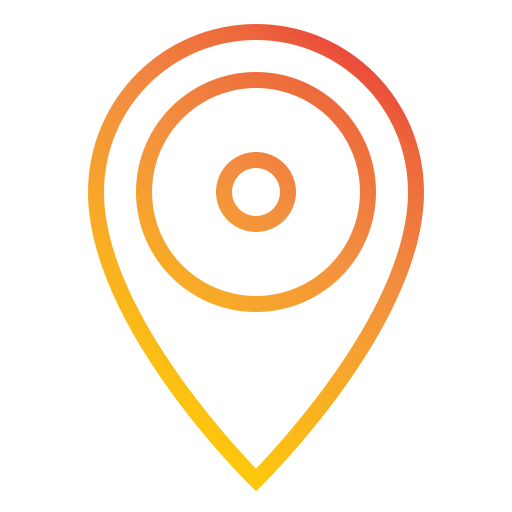
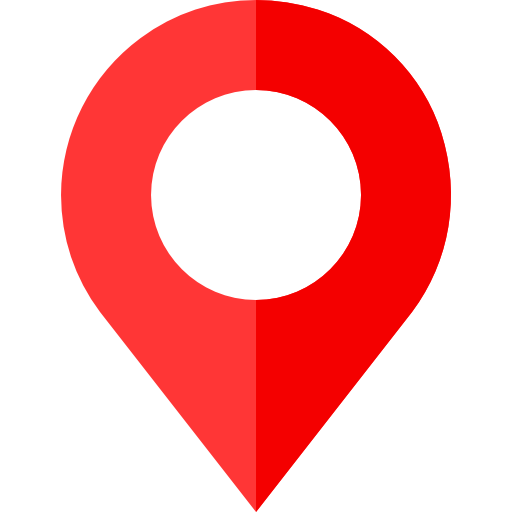
Proyecto final React Js

diff --git a/src/components/ItemCount/ItemCount.jsx b/src/components/ItemCount/ItemCount.jsx
@@ -3,8 +3,6 @@ import "./ItemCount.css"
 
 export const ItemCount = ({stock, cantidad, setCantidad, add}) => {
 
-
-
     const handleRestar = () => {
         cantidad > 1 && setCantidad(cantidad - 1)
     }
@@ -13,23 +11,20 @@ export const ItemCount = ({stock, cantidad, setCantidad, add}) => {
         cantidad < stock && setCantidad(cantidad + 1)
     }
 
-
-return (<div className='contador'>
-    <button
-        onClick={handleRestar} 
-        className={cantidad === 1 ?'btn mx-1 btn-outline-secondary' :'btn mx-1 btn-outline-dark'}
-        disabled={cantidad === 1}
-    >-</button>
-    <span className='mx-2'>{cantidad}</span>
-    <button
-        onClick={handleSumar}
-        className={cantidad === stock ?'btn mx-1 btn-secondary' :'btn mx-1 btn-dark'}
-        disabled={cantidad === stock}
-        >+</button>
-    <a onClick={add} href="#">Añadir al carrito</a> 
-</div>
-
-)
+    return (<div className='contador'>
+        <button
+            onClick={handleRestar} 
+            className={cantidad === 1 ?'btn mx-1 btn-outline-secondary' :'btn mx-1 btn-outline-dark'}
+            disabled={cantidad === 1}
+        >-</button>
+        <span className='mx-2'>{cantidad}</span>
+        <button
+            onClick={handleSumar}
+            className={cantidad === stock ?'btn mx-1 btn-secondary' :'btn mx-1 btn-dark'}
+            disabled={cantidad === stock}
+            >+</button>
+        <a onClick={add} href="#">Añadir al carrito</a> 
+    </div>)
 }
 
 

diff --git a/src/components/Cart/Cart.css b/src/components/Cart/Cart.css
@@ -1,14 +1,12 @@
 .tC h2{
     color: #8f1a26;
 }
-
 .cartProductos{
     display: grid;
     grid-template-columns: auto auto auto;
     background-color: #8f1a26;
     margin: 20px;
 }
-
 .imgCart{
     width: 150px;
     height: 200px;
@@ -18,53 +16,44 @@
     justify-content: center;
     margin-right: 100px;
 }
-
 .imgBox{
     display: flex;
     justify-content: center;
 }
-
 .trash{
     height: 25px;
     width: 25px;
     justify-content: end;
     margin-left: 50px;
 }
-
 .datosProductos{
     display: block;
     justify-content: start;
     align-items: center;
     margin: 40px;
 }
-
 .datosProductos h2{
     color: #e1aa47;
     margin-bottom: 20px;
 }
-
 .datosProductos h3{
     color: white;
     margin-bottom: 20px;
 }
-
 .cartVacio{
     color: #8f1a26;
 }
-
 .btnCart{
     color: white;
     background-color: #8f1a26;
     font-weight: 700;
     border: 1px solid #e1aa47;
 }
-
 .btnCart:hover{
     background-color: #e1aa47;
     transition-duration: 2s;
     border: 1px solid #8f1a26;
 }
-
 .cartBtn button{
     color: white;
     background-color: #e1aa47;
@@ -79,7 +68,6 @@
     background-color: #8f1a26;
     border: 1px solid #8f1a26;
 }
-
 .cartBtn a:hover{
     transition-duration: 2s;
 }

diff --git a/src/components/SocialNetworks/SocialNetworks.jsx b/src/components/SocialNetworks/SocialNetworks.jsx
@@ -1,0 +1,21 @@
+import whatsapp from "/img/whatsapp.png"
+import instagram from "/img/instagram.png"
+import facebook from "/img/facebook.png"
+import googlemaps from "/img/alfiler.png"
+import "./SocialNetwork.css"
+
+
+const SocialNetworks = () => {
+    return (
+        <footer className="footeR">
+            <div className="redes">
+                <a title="WhatsApp" href="https://web.whatsapp.com/"target="_blank" rel="noopener noreferrer"><img src={whatsapp} alt="WhatsApp" /></a>
+                <a title="Instagram" href="https://www.instagram.com/morioh.manga.castelar/?hl=es" target="_blank" rel="noopener noreferrer"><img src={instagram} alt="Instagram" /></a>
+                <a title="Facebook" href="https://www.facebook.com/profile.php?id=100072437049160"target="_blank" rel="noopener noreferrer"><img src={facebook} alt="Facebook" /></a>
+                <a title="Google Maps" href="https://www.google.com/maps/place/Morioh+-+Manga/@-34.6538122,-58.6422249,15z/data=!4m5!3m4!1s0x0:0x4b34f93cf4a0e4f4!8m2!3d-34.6538121!4d-58.6422249"target="_blank" rel="noopener noreferrer"><img src={googlemaps} alt="Google Maps" /></a>
+            </div>
+        </footer>
+    )
+}
+
+export default SocialNetworks

diff --git a/src/components/ItemDetailCard/ItemDetailCard.css b/src/components/ItemDetailCard/ItemDetailCard.css
@@ -3,39 +3,31 @@
     grid-template-columns: auto auto;
     background-color: #8f1a26;
 }
-
 .detalle-producto img{
     width: 400px;
     height: 500px;
     margin: 20px;
 }
-
 .detalle-producto div{
     margin: 20px;
 }
-
 .detalle-producto div h3{
     color: #e1aa47;
 }
-
 .detalle-producto div h5{
     color: white;
     font-size: 20px;
 }
-
 .detalle-producto div h4{
     color: white;
 }
-
 .detalle-producto div p{
     color: white;
     font-weight: 500;
 }
-
 .detalle-producto div a{
     margin-left: 20px;
     text-decoration: none;
-    font-family: 'Poppins', sans-serif;
     color: white;
     background-color: #e1aa47;
     border: 2px solid #e1aa47;
@@ -43,7 +35,6 @@
     border-radius: 30px;
     font-weight: 700;
 }
-
 .detalle-producto div a:hover{
     background-color: #8f1a26;
     transition-duration: 3s;
@@ -53,11 +44,11 @@
     font-size: 15px;
     margin-bottom: 30px;
 }
-
 .detalle-producto div h2{
     color: #e1aa47;
     font-weight: 800;
     font-size: 10px;
+    margin-bottom: 25px;
 }
 
 

diff --git a/src/App.jsx b/src/App.jsx
@@ -7,6 +7,7 @@ import { ItemDetailContainer } from './components/ItemDetailContainer/ItemDetail
 import { CartProvider } from './context/Cartcontext';
 import Cart from './components/Cart/Cart';
 import FinishOrder from './components/FinishOrder/FinishOrder';
+import SocialNetworks from './components/SocialNetworks/SocialNetworks';
 
 
 function App() {
@@ -24,6 +25,7 @@ function App() {
             <Route path='/Finishorder' element={<FinishOrder /> } />
             <Route path='*' element={ <Navigate to={"/"}/>} />
           </Routes>
+          <SocialNetworks/>
         </BrowserRouter>
       </div>
     </CartProvider>

diff --git a/src/components/FinishOrder/FinishOrder.jsx b/src/components/FinishOrder/FinishOrder.jsx
@@ -109,7 +109,7 @@ const FinishOrder = () => {
                     <input 
                         className='form-control my-4'
                         type="number" 
-                        placeholder='Telefono'
+                        placeholder='Teléfono'
                         value={values.telefono}
                         name='telefono'
                         onChange={handleChange}
@@ -131,10 +131,8 @@ const FinishOrder = () => {
                     </div>
                 </div>)}
             </Formik>
-            
-            
         </div>
     )
-    }
+}
 
 export default FinishOrder

diff --git a/src/components/ItemDetailContainer/ItemDetailContainer.jsx b/src/components/ItemDetailContainer/ItemDetailContainer.jsx
@@ -8,6 +8,7 @@ import { db } from '../../firebase/config'
 
 export const ItemDetailContainer = ({Stock}) => {
     const [item, setItem] = useState(null)
+
     const [loading, setLoading] = useState(true)
 
     const {itemId} = useParams()
@@ -26,8 +27,7 @@ export const ItemDetailContainer = ({Stock}) => {
         .catch(e => console.log(e))
         .finally(() => setLoading(false))
     }, [])
-    
-    
+
     return(
         <div className="producto-detalle">
             <h2>Catalogo de productos</h2>

diff --git a/index.html b/index.html
@@ -2,7 +2,7 @@
 <html lang="en">
   <head>
     <meta charset="UTF-8" />
-    <link rel="icon" type="image/svg+xml" href="/vite.svg" />
+    <link rel="icon" type="image/svg+xml" href="/img/favicon.ico" />
     <meta name="viewport" content="width=device-width, initial-scale=1.0" />
     <title>Morioh Manga</title>
   </head>

diff --git a/src/components/SocialNetworks/SocialNetwork.css b/src/components/SocialNetworks/SocialNetwork.css
@@ -1,0 +1,14 @@
+.footeR{
+    display: flex;
+    justify-content: center;
+}
+.redes{
+    background-color: #e1aa47;
+    border-radius: 20px;
+    margin-bottom: 12px;
+}
+.redes a img{
+    width: 50px;
+    height: 50px;
+    margin: 20px;
+}

diff --git a/src/App.css b/src/App.css
@@ -11,3 +11,4 @@ header{
 
 
 
+
